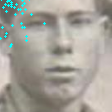
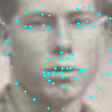
updated 2022.07.12

diff --git a/source/face_landmark/mark2/train.py b/source/face_landmark/mark2/train.py
@@ -109,7 +109,8 @@ def adjust_lr(epoch, lr):
         return lr * 0.5
 
 
-def build_lrfn(lr_start=0.000001, lr_max=0.001, lr_min=0.00001, lr_rampup_epochs=500, lr_sustain_epochs=0, lr_exp_decay=.8):
+def build_lrfn(lr_start=0.00001, lr_max=0.009, lr_min=0.0001, lr_rampup_epochs=200, lr_sustain_epochs=0, lr_exp_decay=0.001):
+# def build_lrfn(lr_start=0.000001, lr_max=0.001, lr_min=0.00001, lr_rampup_epochs=500, lr_sustain_epochs=0, lr_exp_decay=.8):
     # lr_max = lr_max * strategy.num_replicas_in_sync
 
     def lrfn(epoch):
@@ -126,8 +127,8 @@ def build_lrfn(lr_start=0.000001, lr_max=0.001, lr_min=0.00001, lr_rampup_epochs
     
     
 if __name__ == "__main__":
-    train_dir = '/data/Datasets/WFLW/train_data_68pts/list.txt'
-    test_dir = '/data/Datasets/WFLW/test_data_68pts/list.txt'
+    train_dir = '/data/Datasets/WFLW/augment_train_68pts/list.txt'
+    test_dir = '/data/Datasets/WFLW/augment_test_68pts/list.txt'
     save_dir = "/data/Models/facial_landmark_68pts"
 
     batch_size = 256
@@ -146,11 +147,11 @@ if __name__ == "__main__":
         os.makedirs(save_dir)
     
     optimizer = AngularGrad(method_angle="cos", learning_rate=lr)
-    # cdr = tf.keras.optimizers.schedules.CosineDecayRestarts(initial_learning_rate=lr,
-    #                                                         first_decay_steps=300,
-    #                                                         t_mul=2.0,
-    #                                                         m_mul=0.9,
-    #                                                         alpha=0.000001)
+    cdr = tf.keras.optimizers.schedules.CosineDecayRestarts(initial_learning_rate=lr,
+                                                            first_decay_steps=200,
+                                                            t_mul=2.0,
+                                                            m_mul=0.9,
+                                                            alpha=0.001)
 
     # clr = tfa.optimizers.CyclicalLearningRate(initial_learning_rate=0.000001,
     #                                           maximal_learning_rate=0.001,
@@ -159,7 +160,7 @@ if __name__ == "__main__":
     #                                           scale_mode="cycle")
 
     callbacks = [DisplayCallback(),
-                 tf.keras.callbacks.LearningRateScheduler(build_lrfn()),
+                 tf.keras.callbacks.LearningRateScheduler(cdr),
                 #  tf.keras.callbacks.EarlyStopping(monitor="val_loss", patience=20, verbose=1),
                  tf.keras.callbacks.CSVLogger("./logs/train.csv"),
                  tf.keras.callbacks.ModelCheckpoint(f"{save_dir}/best.h5", monitor="val_loss", verbose=1, save_best_only=True, save_weights_only=True)]

diff --git a/source/face_landmark/mark2/augmentation.py b/source/face_landmark/mark2/augmentation.py
@@ -315,7 +315,7 @@ if __name__ == "__main__":
             if not os.path.isdir(f"{ROOT_DIR}/augment_train_68pts"):
                 os.makedirs(f"{ROOT_DIR}/augment_train_68pts/imgs")
 
-            final_labels = line_process(lines, True, 3, f"{ROOT_DIR}/augment_train_68pts", f"{ROOT_DIR}/WFLW_annotations/Mirror68.txt")
+            final_labels = line_process(lines, True, 10, f"{ROOT_DIR}/augment_train_68pts", f"{ROOT_DIR}/WFLW_annotations/Mirror68.txt")
             write_txt(final_labels, f"{ROOT_DIR}/augment_train_68pts/list.txt")
         
         else:
@@ -323,5 +323,4 @@ if __name__ == "__main__":
                 os.makedirs(f"{ROOT_DIR}/augment_test_68pts/imgs")
 
             final_labels = line_process(lines, False, 1, f"{ROOT_DIR}/augment_test_68pts")
-            print(len(final_labels))
             write_txt(final_labels, f"{ROOT_DIR}/augment_test_68pts/list.txt")
